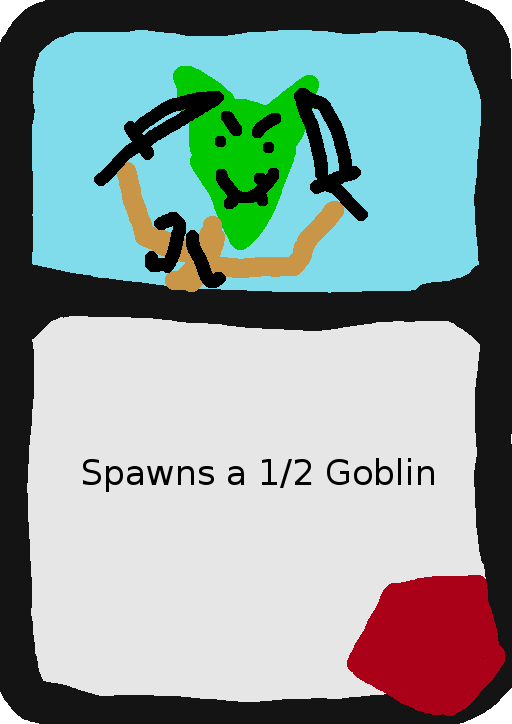
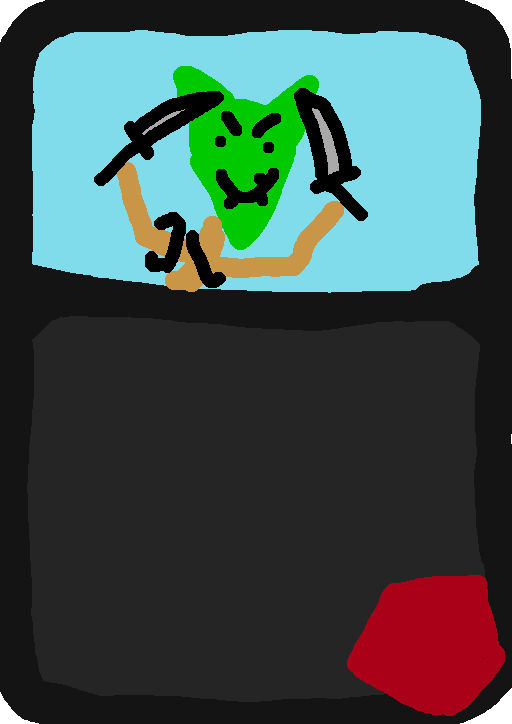
card on text as string

diff --git a/game.js b/game.js
@@ -152,6 +152,13 @@ function drawPassiveCreatures(creatures){
 
 function drawCard(card, x, y, size){
     ctx.drawImage(card.image, x, y, size, size * Math.sqrt(2));
+
+    ctx.font = '13px arial';
+    ctx.textAlign = 'center';
+    ctx.textBaseline = 'bottom';
+    ctx.fillStyle = 'white';
+
+    ctx.fillText(card.cardtext, x + size / 2, y + size / 16 * 11 * Math.sqrt(2));
 }
 
 function drawCreature(creature, x, y, size){
